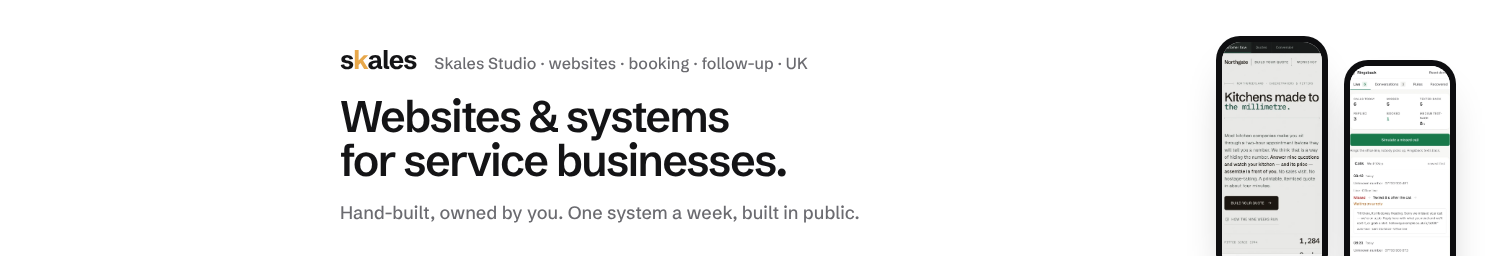
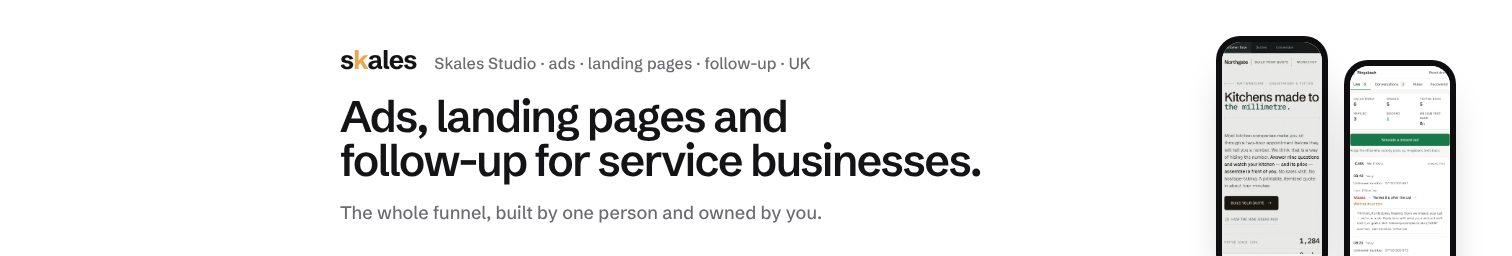
LinkedIn kit: lead with the whole funnel (ads, landing pages, follow-up)
- Headline, job title, About, Experience, Services page, skills, Company
  Page and the first post now lead with Facebook, Instagram and Google
  ads, the landing pages they point at, and the booking and follow-up
  behind them. Industry moves to Marketing Services.
- Outreach messages offer a funnel teardown and say West London.
- Banners re-rendered with the funnel line.

Claude-Session: https://claude.ai/code/session_015bPWyTW5VKq1gf3wUzhQQd

Changed region(s): [[0.2176, 0.375, 0.6528, 0.7188], [0.2176, 0.7812, 0.5595, 0.875], [0.3419, 0.2188, 0.5595, 0.2812]]

diff --git a/tools/linkedin.html b/tools/linkedin.html
@@ -33,9 +33,9 @@ h1{font-weight:600;line-height:1;letter-spacing:-.04em;text-wrap:balance}
 .page .ph:nth-child(2){margin-top:24px}
 </style></head><body>
 <div class="txt">
-  <div class="top"><span class="wm" id="wm"></span><span class="kick">Skales Studio · websites · booking · follow-up · UK</span></div>
-  <h1>Websites &amp; systems for service businesses.</h1>
-  <p class="sub">Hand-built, owned by you. One system a week, built in public.</p>
+  <div class="top"><span class="wm" id="wm"></span><span class="kick">Skales Studio · ads · landing pages · follow-up · UK</span></div>
+  <h1>Ads, landing pages and <span style="white-space:nowrap">follow-up</span> for service businesses.</h1>
+  <p class="sub">The whole funnel, built by one person and owned by you.</p>
 </div>
 <div class="phones" id="ph"></div>
 <script>

diff --git a/tools/linkedin.md b/tools/linkedin.md
@@ -34,24 +34,24 @@ Site address: until skales.studio points here, every link below uses the github.
 | First name / Last name | Tom / Griffiths. LinkedIn's rules: real name only, no titles or emoji in the name field. |
 | Additional name | Thomas (optional; helps searches for "Thomas Griffiths" find you, matching the site schema) |
 | Pronouns | Your call |
-| Current position | Founder, web designer & developer at Skales Studio (tick "show current company in my intro") |
-| Industry | IT Services and IT Consulting |
+| Current position | Founder · Ads, landing pages & web design at Skales Studio (tick "show current company in my intro") |
+| Industry | Marketing Services |
 | Location | United Kingdom, plus your town or nearest city. This matters more than it looks: local owners filter search by location, and Services-page requests are matched by it. |
 
 ### Headline (limit 220; the first ~60 characters are all many views show, so they say what you do)
 
-LinkedIn people-search matches on the headline and the current job title, so both carry the words clients and recruiters actually type: "web designer" and "web developer".
+LinkedIn people-search matches on the headline and the current job title, so both carry the words owners actually type: "Facebook ads", "Google ads", "landing pages". The job title keeps "web design" for recruiter searches.
 
 Recommended:
 
 ```text
-Web designer for UK trades and service businesses | Websites, online booking and follow-up automation | Founder, Skales Studio
+Facebook & Google ads, landing pages and follow-up for UK trades and service businesses | The whole funnel, built by one person | Founder, Skales Studio
 ```
 
-Alternative, if you want the ads in:
+Alternative, more local:
 
 ```text
-Web designer & developer | Websites, booking and follow-up automation for UK service businesses, plus the Meta and Google ads that point at them | Founder, Skales Studio
+Ads, landing pages and lead follow-up for West London trades | Meta & Google ads, websites, booking and CRM | Founder, Skales Studio
 ```
 
 ### Custom URL
@@ -70,21 +70,21 @@ Try in this order: `linkedin.com/in/tomgriffiths-skales`, `linkedin.com/in/tom-g
 ### About (limit 2,600; the first two or three lines show before "see more")
 
 ```text
-I build websites, online booking and follow-up automation for UK service businesses: plumbers, heating engineers, electricians, roofers, kitchen fitters, landscapers, cleaners, salons, and anyone whose work comes in by phone.
+I build the whole marketing funnel for UK service businesses: the Facebook, Instagram and Google ads, the landing page they click through to, and the booking and follow-up that turn an enquiry into a job. Plumbers, electricians, roofers, builders, salons, and anyone whose work comes in by phone.
 
-Work leaks out of a service business in small, quiet ways: a call nobody answers, a quote nobody chases, a happy customer nobody asks for a review. I build the system that catches each one.
+An ad that points at a page built to take no enquiry wastes the click. An enquiry nobody follows up wastes the ad. Each step only pays if the next one works, so I build every step as one system.
 
-What I build
-• Websites that turn a visit into a name and a number. Hand-coded, with no page builder and no theme.
-• Online booking with deposits, a CRM with every enquiry in it, and quotes that chase themselves.
-• Follow-up that runs on its own: missed-call text-back, review requests, service reminders, on-my-way texts.
-• Facebook, Instagram and Google ads that point at all of it, with the ad accounts set up in your name.
+The funnel
+• Ads: Facebook, Instagram and Google search ads, and Local Services Ads where the trade qualifies. The ad accounts are set up in your name.
+• Landing pages: one page per offer, built to turn a click into a name and a number. Hand-coded and fast, with no page builder and no theme.
+• Booking and CRM: slots customers take themselves, deposits that hold them, and every enquiry in one place with what happened to it.
+• Follow-up that runs on its own: missed-call text-back, quote chasing, review requests, service reminders.
 
 How it works
-1. Free teardown. I look at your website, your Google listing and what happens when someone tries to reach you, then send you three things: what is leaking, what to fix first, and what it is worth in jobs.
+1. Free teardown. I look at your ads, your website, your Google listing and what happens when someone tries to reach you, then send you three things: what is leaking, what to fix first, and what it is worth in jobs.
 2. A flat quote after a short call, agreed before anything starts.
 3. Built in public. A website on its own takes days; a full system with booking and follow-up usually takes one to two weeks.
-4. Handover. Your domain, code and accounts are in your name from day one. Nothing is rented back to you monthly.
+4. Handover. The ad accounts, domain, code and every other account are in your name from day one. Nothing is rented back to you monthly.
 
 Skales Studio is one person. The person you message is the person who builds it.
 
@@ -95,7 +95,7 @@ Run a service business? Book a call or ask for the free teardown. The links are 
 
 The build count goes up every week; update "Thirty-six" here, in Experience and on the Company Page when the site's number changes.
 
-**Top skills** (the five pinned under About): Web Design · Web Development · Marketing Automation · Google Ads · Social Media Advertising.
+**Top skills** (the five pinned under About): Facebook Ads · Google Ads · Landing Page Optimization · Web Design · Marketing Automation.
 
 ### Featured (in this order; each pulls the page's own OG card as its picture)
 
@@ -109,23 +109,24 @@ The build count goes up every week; update "Thirty-six" here, in Experience and 
 
 | Field | Value |
 |---|---|
-| Title | Founder, web designer & developer (not just "Founder & builder": the title is what search matches) |
+| Title | Founder · Ads, landing pages & web design (not just "Founder & builder": the title is what search matches) |
 | Employment type | Self-employed |
 | Company | Skales Studio (pick the Company Page once it exists) |
 | Dates | [month] 2026 to present |
 | Location | United Kingdom · Remote |
-| Skills | Web Design, Web Development, Marketing Automation, Google Ads, Social Media Advertising |
+| Skills | Facebook Ads, Google Ads, Landing Page Optimization, Web Design, Marketing Automation |
 | Media | Links to /work/ and /try/ |
 
 Description (limit 2,000):
 
 ```text
-One-person studio. I build websites, online booking with a CRM, and follow-up automation for UK service businesses, and run the Meta and Google ads that point at them.
+One-person studio. I build the whole marketing funnel for UK service businesses: Meta and Google ads, the landing pages they point at, and the online booking, CRM and follow-up automation behind them.
 
+• Ads run in the client's own ad accounts and point at landing pages built for one job: turning a click into an enquiry.
 • Every build is hand-coded in HTML, CSS and plain JavaScript: no framework, no page builder, no theme.
 • Thirty-six working demonstration builds run live on the site: quote engines, dispatch boards, booking with deposits, missed-call text-back, review requests, boiler-service and MOT reminders. Every business in them is fictional.
 • One new system a week, built in public on Instagram.
-• Clients own their domain, code and accounts from day one. Ad accounts are set up in the client's name.
+• Clients own their ad accounts, domain, code and every other account from day one.
 • Every job is quoted flat after a short call and agreed before anything starts.
 ```
 
@@ -133,7 +134,7 @@ Add any earlier jobs and your education as they really were. A short honest hist
 
 ### Services page ("Open to" → "Providing services")
 
-- **Services** (pick the closest from LinkedIn's list, up to 10): Web Design, Web Development, Custom Software Development, Search Engine Optimization (SEO), Digital Marketing, Advertising, Social Media Marketing, Search Engine Marketing (SEM).
+- **Services** (pick the closest from LinkedIn's list, up to 10): Advertising, Digital Marketing, Search Engine Marketing (SEM), Social Media Marketing, Lead Generation, Web Design, Web Development, Search Engine Optimization (SEO).
 - **Location:** tick "available to work remotely", plus your area.
 - **Pricing:** leave blank. No prices, same as the site.
 - **Reviews:** this is where the first real client reviews can live. Only ever ask real clients.
@@ -141,12 +142,12 @@ Add any earlier jobs and your education as they really were. A short honest hist
 Description (keep under 500):
 
 ```text
-Websites, online booking and follow-up automation for UK service businesses, plus the Meta and Google ads that point at them. Hand-coded, with no page builder and no theme. You own the domain, code and accounts from day one. A website on its own takes days; a full system with booking and follow-up usually takes one to two weeks. Every job is quoted flat after a short call. Start with the free teardown: three findings on your website and Google listing, sent by message.
+The whole marketing funnel for UK service businesses: Facebook, Instagram and Google ads, landing pages built to turn a click into an enquiry, and the booking and follow-up that turn an enquiry into a job. The ad accounts, domain and code are yours from day one. Hand-coded, with no page builder. Every job is quoted flat after a short call. Start with the free teardown: three findings on your ads, website and Google listing, sent by message.
 ```
 
 ### Skills (add these; skip any LinkedIn's autocomplete does not offer)
 
-Web Design · Web Development · Front-End Development · JavaScript · HTML5 · Cascading Style Sheets (CSS) · Responsive Web Design · Marketing Automation · Customer Relationship Management (CRM) · Google Ads · Facebook Ads · Social Media Advertising · Search Engine Optimization (SEO) · Local SEO · Conversion Rate Optimization · Lead Generation · Small Business Marketing
+Facebook Ads · Google Ads · Pay Per Click (PPC) · Social Media Advertising · Landing Page Optimization · Conversion Rate Optimization · Lead Generation · Marketing Automation · Customer Relationship Management (CRM) · Small Business Marketing · Web Design · Web Development · Front-End Development · JavaScript · HTML5 · Cascading Style Sheets (CSS) · Responsive Web Design · Search Engine Optimization (SEO) · Local SEO
 
 ### Photo
 
@@ -173,7 +174,7 @@ Upload `og/linkedin-banner.png`. The left side is left empty on purpose: your ph
 | Name | Skales Studio (the full name, so search engines don't confuse it with the SKALE crypto network) |
 | LinkedIn URL | `linkedin.com/company/skales-studio` (fallback `skalesstudio`) |
 | Website | https://thomasrgriffiths08-blip.github.io/skales/ |
-| Industry | IT Services and IT Consulting |
+| Industry | Marketing Services |
 | Organisation size | 0–1 employees |
 | Organisation type | Sole proprietorship if you trade as a sole trader; Privately held if Skales Studio is a limited company |
 | Logo | `og/icon.png` |
@@ -185,27 +186,27 @@ Upload `og/linkedin-banner.png`. The left side is left empty on purpose: your ph
 Tagline (limit 120):
 
 ```text
-Websites, booking and follow-up automation for UK service businesses. Hand-built, owned by you.
+Ads, landing pages and follow-up for UK service businesses. The whole funnel, owned by you.
 ```
 
 Overview (limit 2,000):
 
 ```text
-Skales Studio builds websites, online booking with a CRM, and follow-up automation for UK service businesses, and runs the Facebook, Instagram and Google ads that point at them. Mostly trades and local operators: plumbers, heating engineers, electricians, roofers, kitchen fitters, landscapers, cleaners and salons.
+Skales Studio builds the whole marketing funnel for UK service businesses: the Facebook, Instagram and Google ads, the landing pages they point at, and the online booking and follow-up that turn an enquiry into a job. Mostly trades and local operators: plumbers, heating engineers, electricians, roofers, kitchen fitters, landscapers, cleaners and salons.
 
 It is one person, Tom Griffiths. The person you message is the person who builds it.
 
-• Websites that turn a visit into a name and a number. Hand-coded, with no page builder and no theme.
-• Online booking with deposits, a CRM with every enquiry in it, and quotes that chase themselves.
-• Follow-up that runs on its own: missed-call text-back, review requests, service reminders, on-my-way texts.
-• Meta and Google ads, with the ad accounts set up in the client's name.
+• Ads: Facebook, Instagram and Google search ads, and Local Services Ads where the trade qualifies, in the client's own ad accounts.
+• Landing pages: one page per offer, built to turn a click into a name and a number. Hand-coded, with no page builder and no theme.
+• Booking and CRM: slots customers take themselves, deposits that hold them, and every enquiry in one place.
+• Follow-up that runs on its own: missed-call text-back, quote chasing, review requests, service reminders.
 
-Clients own their domain, code and accounts from day one; nothing is rented back to them monthly. Every job is quoted flat after a short call and agreed before anything starts.
+Clients own their ad accounts, domain, code and every other account from day one; nothing is rented back to them monthly. Every job is quoted flat after a short call and agreed before anything starts.
 
 Thirty-six working demonstration builds run live on the website, every one for an invented business, and one new system a week is built in public on Instagram (@tomxsystems).
 ```
 
-Specialties: Websites for service businesses · Online booking systems · CRM for trades · Follow-up automation · Missed-call text-back · Review request automation · Service reminders · Facebook and Instagram ads · Google Ads · Local SEO · Hand-coded websites
+Specialties: Facebook and Instagram ads · Google Ads · Local Services Ads · Landing pages · Lead generation for trades · Online booking systems · CRM for trades · Follow-up automation · Missed-call text-back · Review request automation · Hand-coded websites
 
 ---
 
@@ -214,17 +215,19 @@ Specialties: Websites for service businesses · Online booking systems · CRM fo
 ### The first post
 
 ```text
-I run Skales Studio. I build websites, online booking and follow-up automation for UK service businesses: the plumbers, electricians, roofers, salons and clinics whose work comes in by phone.
+I run Skales Studio in West London. I build the whole marketing funnel for service businesses: the Facebook and Google ads, the landing page they click through to, and the booking and follow-up behind it.
+
+Why the whole funnel: an ad that points at a page built to take no enquiry wastes the click, and an enquiry nobody follows up wastes the ad. Each step only pays if the next one works.
 
 Three rules I build to:
 
-1. You own it. The domain, the code and every account sit in your name from day one. Nothing is rented back to you monthly.
+1. You own it. The ad accounts, the domain, the code: all in your name from day one. Nothing is rented back to you monthly.
 2. One person. The person you message is the person who builds it.
 3. Proof, not promises. Thirty-six working builds run live on my site, each for an invented business so no client's numbers are on show. Open any of them and use it.
 
 I build one new system a week in public, and I'll post each one here.
 
-If you run a service business, or know someone who does, I'll look at the website, the Google listing and what happens when someone tries to get in touch, and send back three things: what is leaking, what to fix first, and what it is worth in jobs. Free.
+If you run a service business round West London, or know someone who does, I'll look at the ads, the website and what happens when someone tries to get in touch, and send back three things: what is leaking, what to fix first, and what it is worth in jobs. Free.
 
 https://thomasrgriffiths08-blip.github.io/skales/teardown.html
 ```
@@ -267,19 +270,19 @@ Find them with people search: keywords like `owner plumbing`, `director electric
 Invite note to a referral partner (under 200):
 
 ```text
-Hi [name], I build websites and booking systems for UK trades and service businesses. Plenty of your clients will be the people I work with, so it seemed worth connecting. Tom
+Hi [name], I build ads, landing pages and follow-up for UK trades and service businesses. Plenty of your clients will be the people I work with, so it seemed worth connecting. Tom
 ```
 
 After a business owner accepts (no pitch until they say yes):
 
 ```text
-Thanks for connecting, [name]. I build websites, online booking and follow-up for businesses like yours. If it's useful, I'll look at your website and Google listing and send back three things: what's leaking, what to fix first, and what it's worth in jobs. Free, no call needed. Want me to?
+Thanks for connecting, [name]. I build the whole funnel for businesses like yours: the ads, the landing page and the follow-up. If it's useful, I'll look at your website, your Google listing and any ads you're running, and send back three things: what's leaking, what to fix first, and what it's worth in jobs. Free, no call needed. Want me to?
 ```
 
 To people you know:
 
 ```text
-I've started Skales Studio: I build websites, online booking and follow-up automation for service businesses. If you know a tradesperson or small business owner whose website is letting them down, I'd be grateful for an introduction.
+I've started Skales Studio: I build ads, landing pages and follow-up for service businesses. If you know a tradesperson or small business owner who wants more enquiries, I'd be grateful for an introduction.
 ```
 
 One follow-up a week later if there's no reply, then leave it. When someone says yes to the teardown, do it properly; it is the best thing you have to show them.
@@ -304,7 +307,7 @@ One follow-up a week later if there's no reply, then leave it. When someone says
 Clients come first, so the public profile stays entirely about them. Nothing visible says you are looking: a client who reads "open to new roles" wonders whether you will be around to finish their build. The job side runs quietly underneath:
 
 - **Open to → Finding a new job**, visibility **Recruiters only**. Only people using LinkedIn's recruiter tools see it, and the green frame never appears on your photo. Job titles: Web Developer, Front-End Developer, Web Designer, JavaScript Developer. Location: your area, plus remote.
-- **Keep the client headline.** Recruiters search job titles and skills, and the profile already carries both: "web designer" and "web developer" in the headline and title, HTML, CSS and JavaScript in Experience and Skills.
+- **Keep the client headline.** Recruiters search job titles and skills, and the profile already carries both: "web design" in the title, HTML, CSS and JavaScript in Experience and Skills.
 - **Leave Featured in the client order.** All the builds is already in it, and it is the first thing a recruiter clicks.
 - When you apply, message the hiring manager or someone on the team with one line on why, and a link to the build closest to their work. That message is where you say you are looking, not the profile.
 
